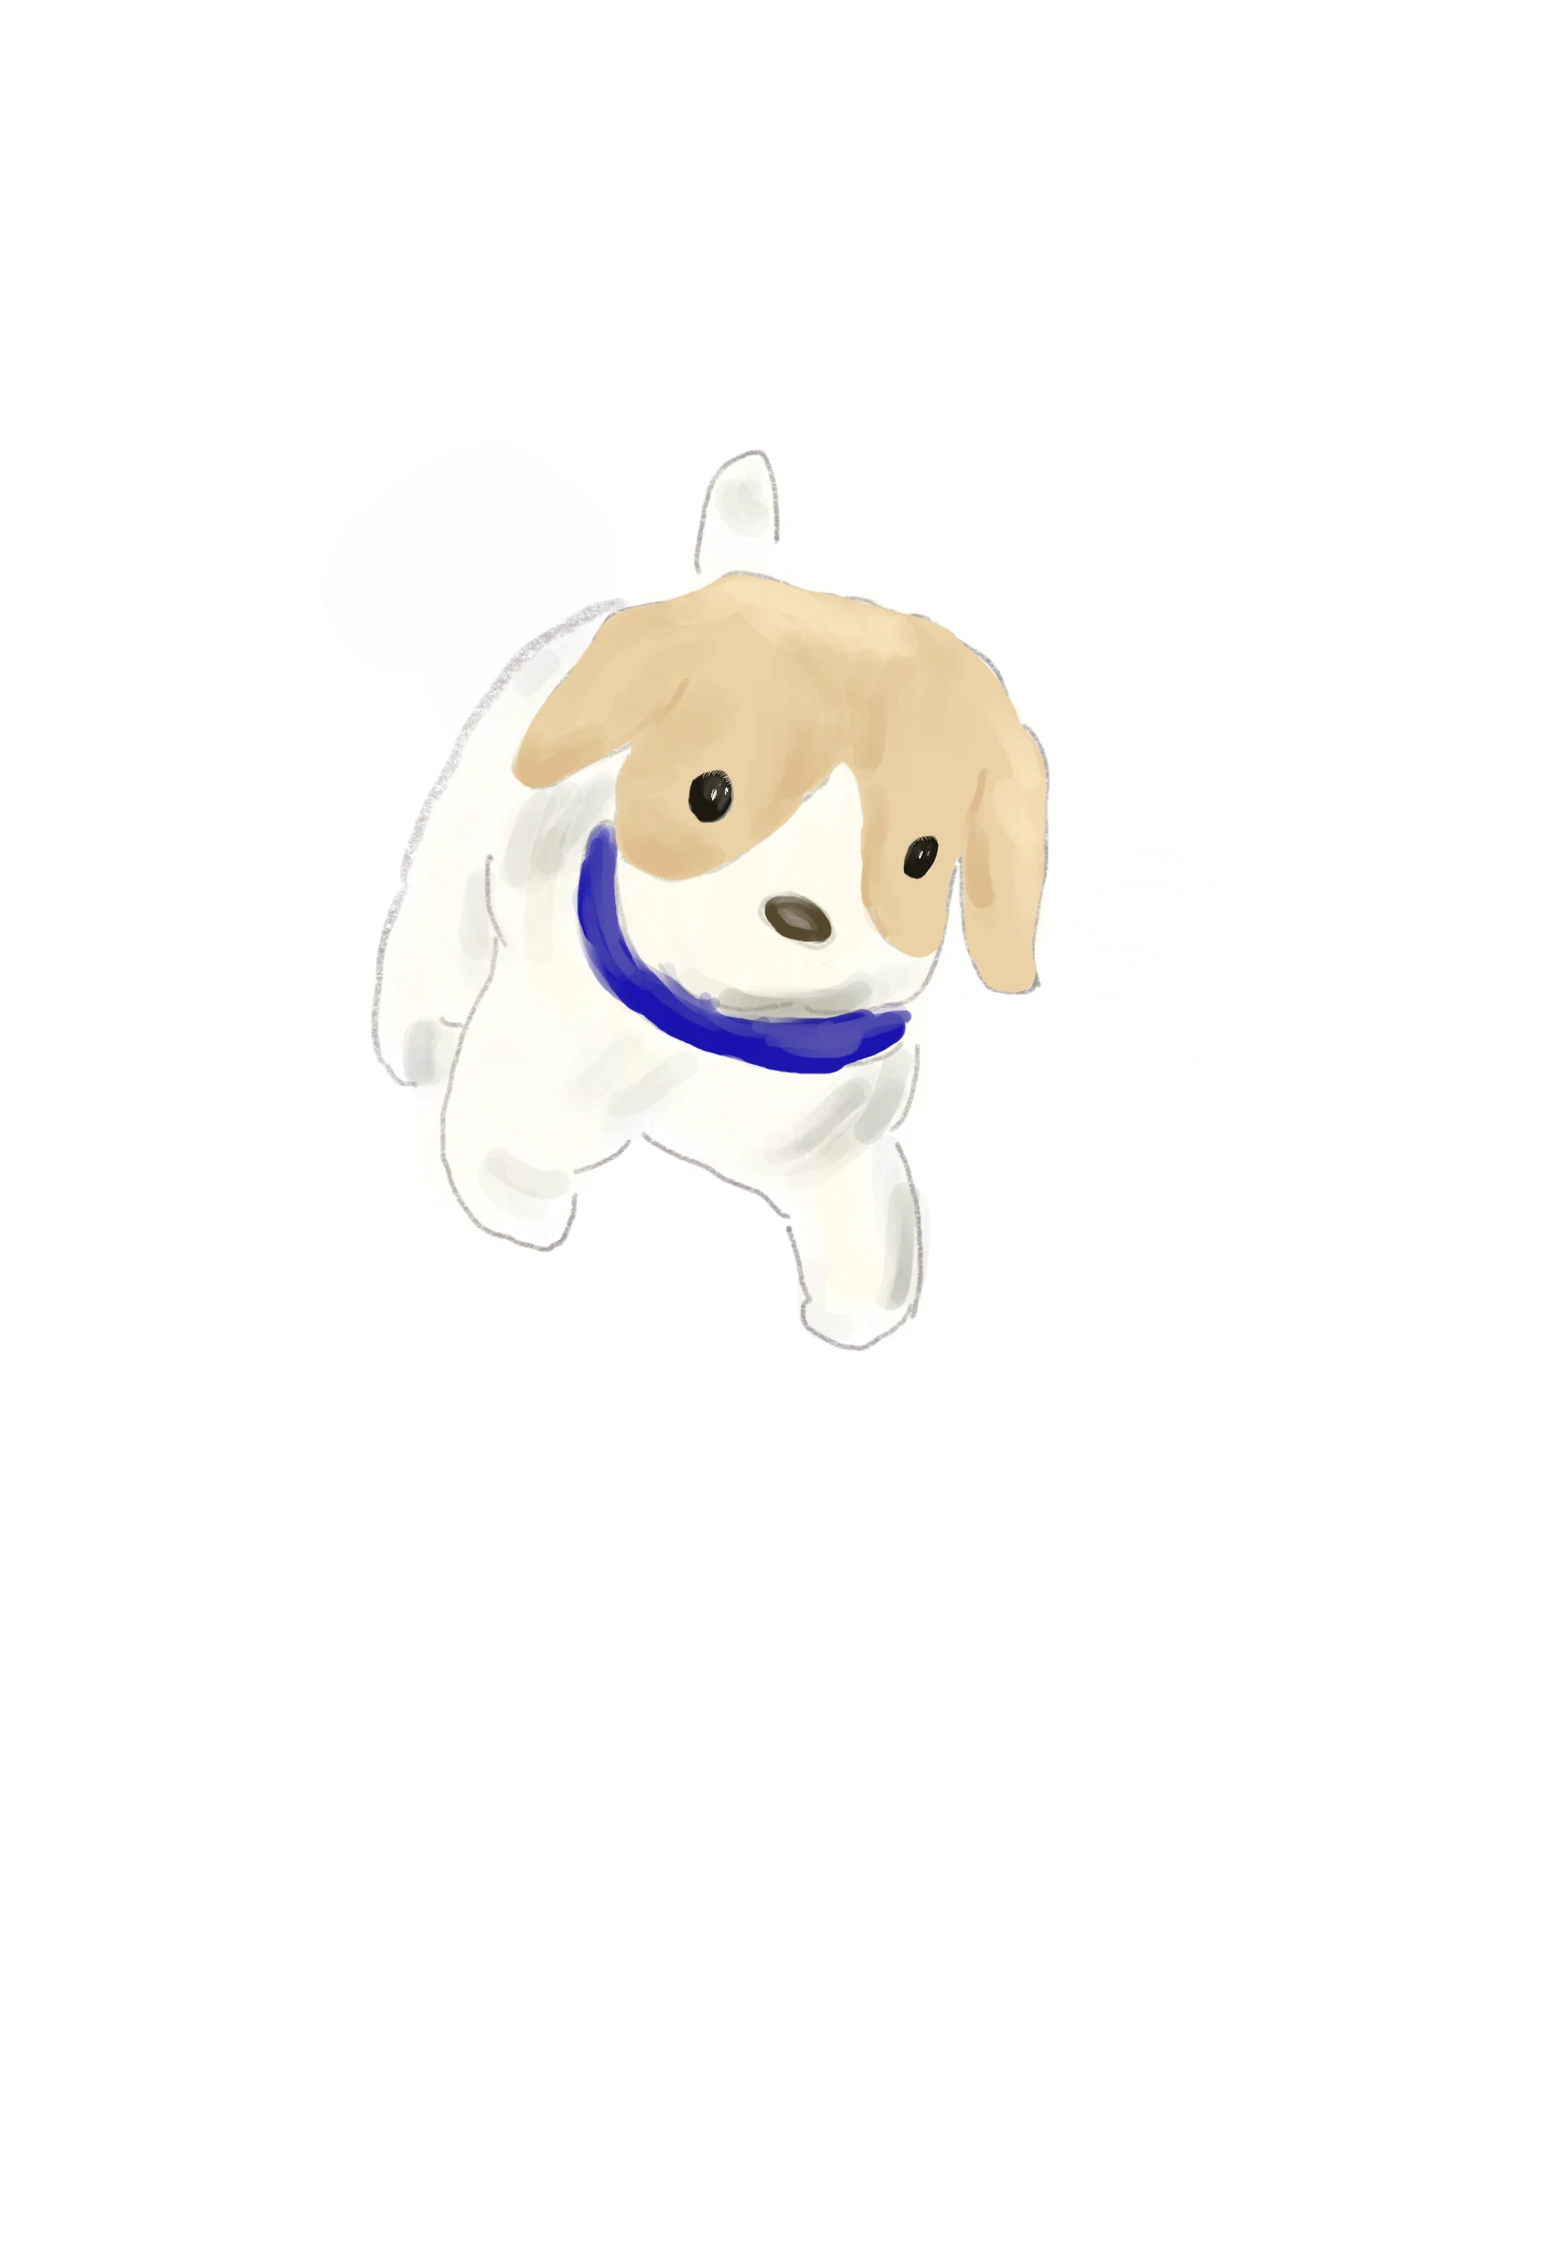
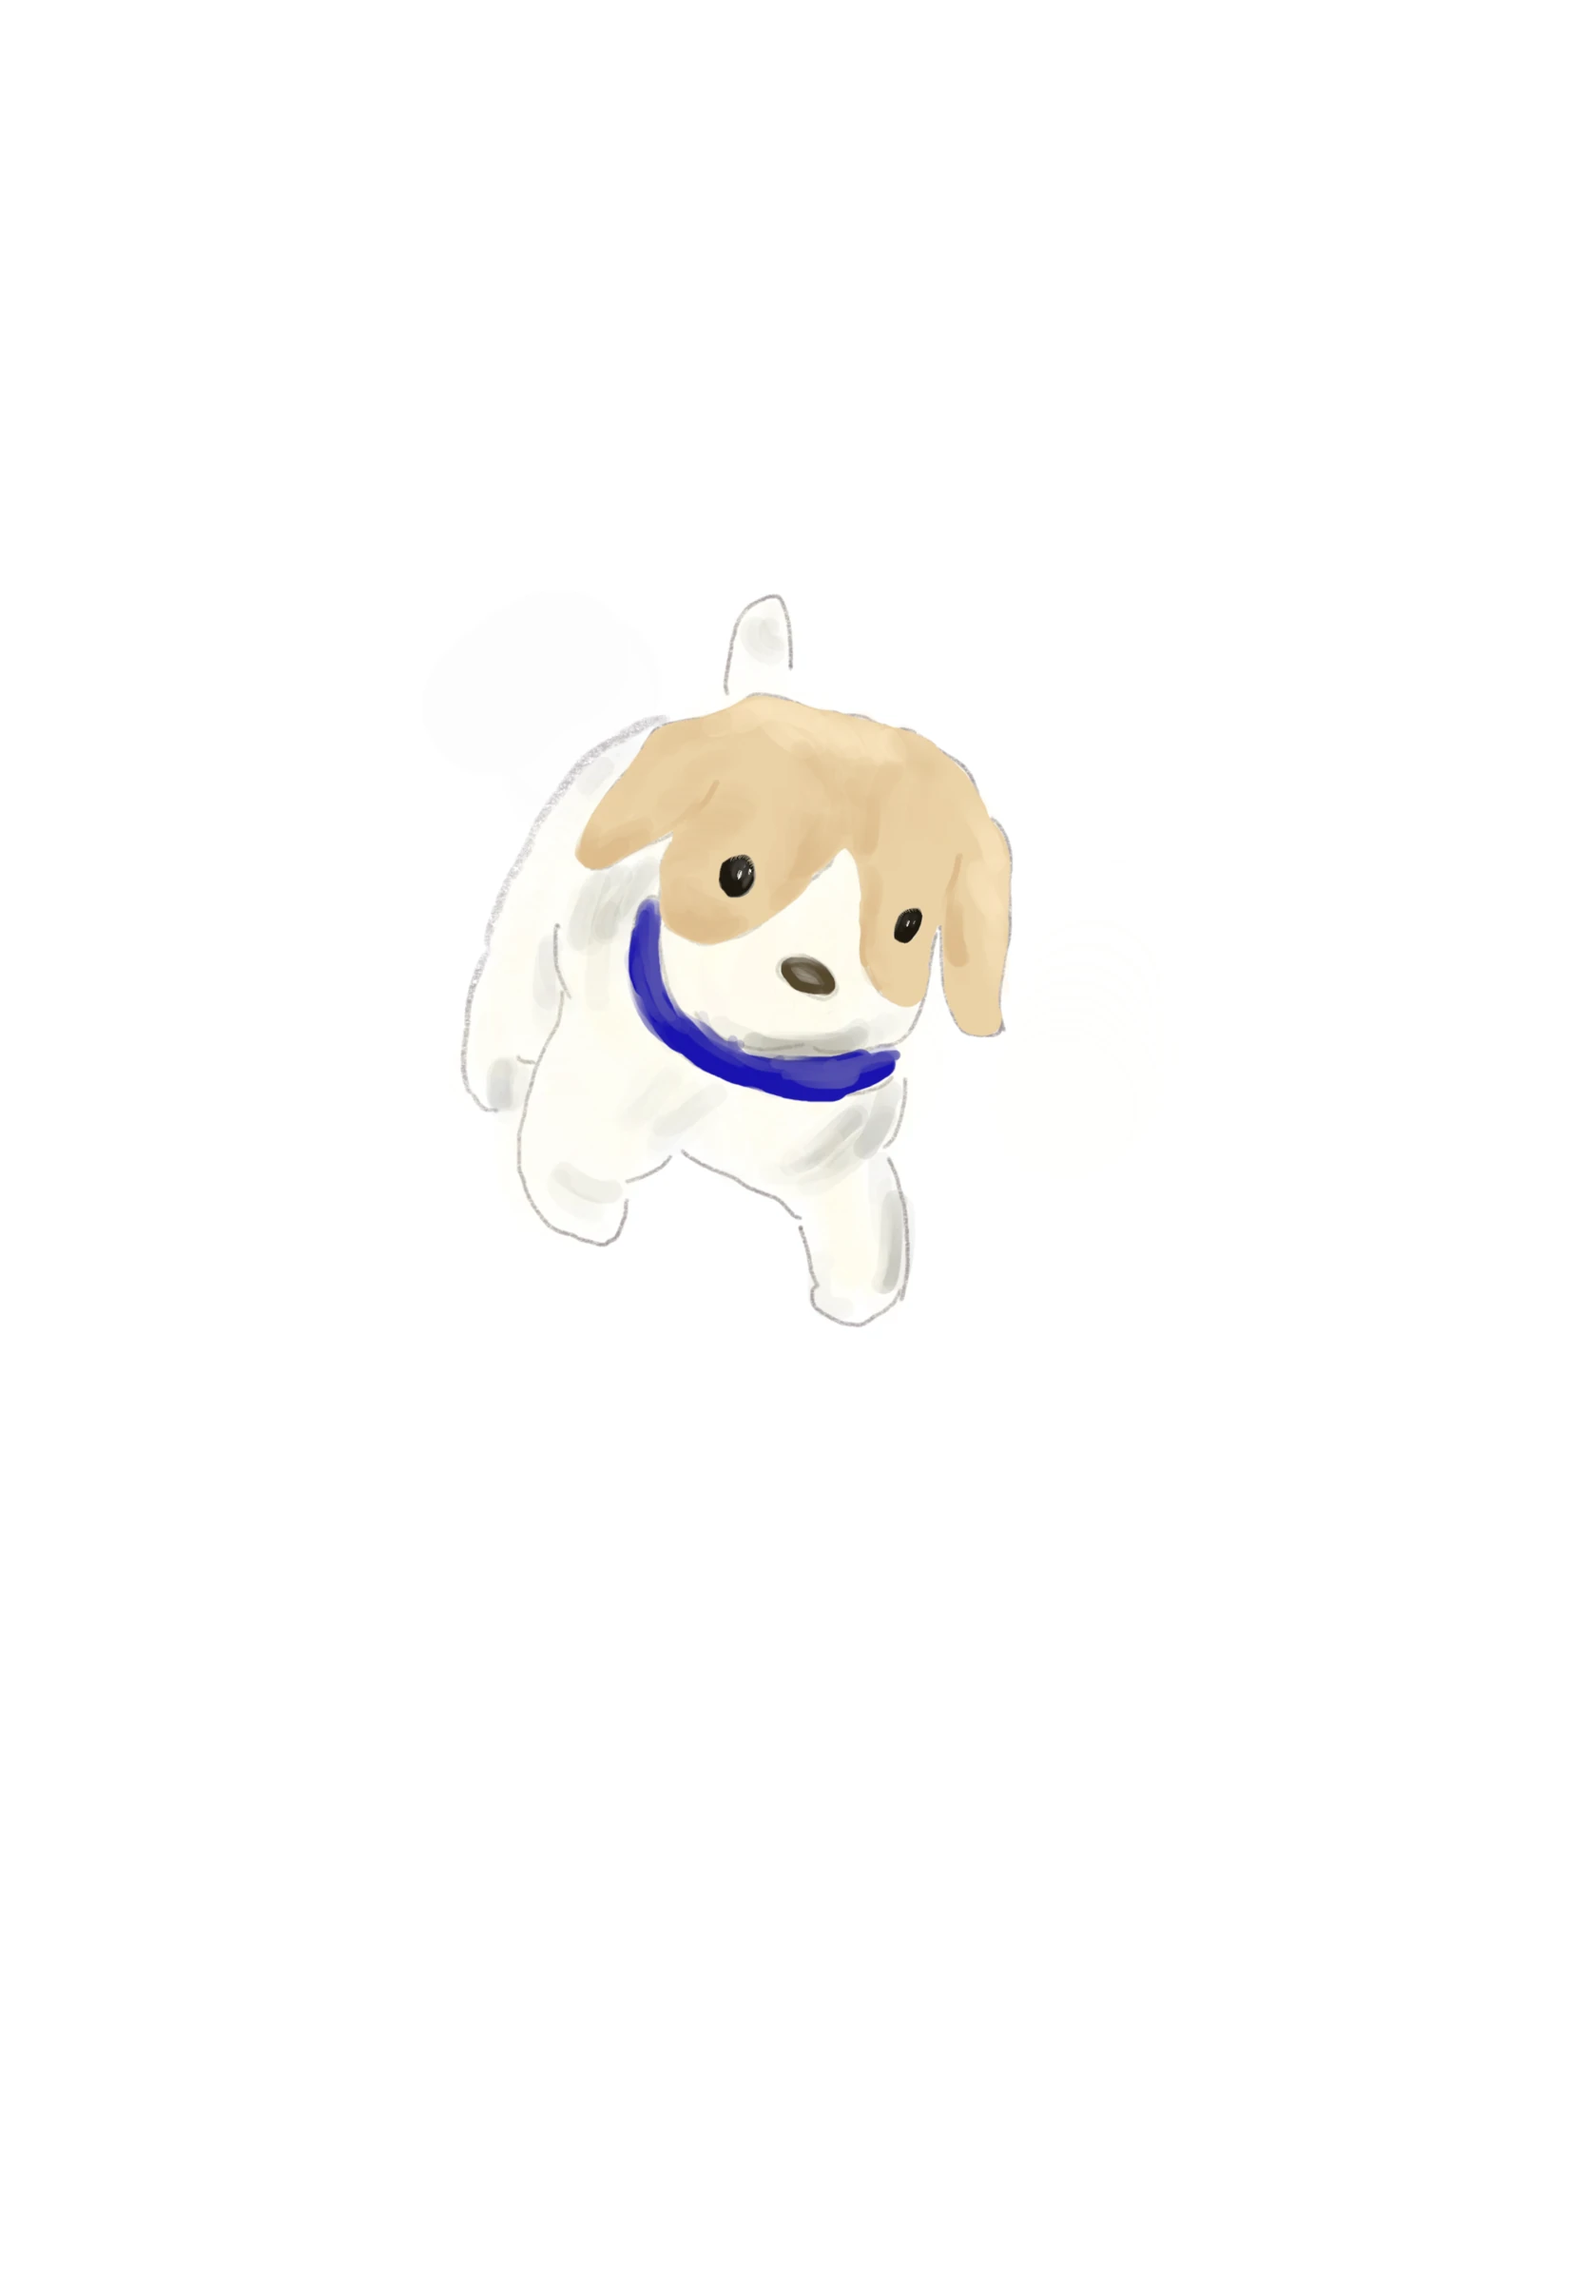
Update dog illustration and preserve Display P3 profile

diff --git a/portfolio/index.html b/portfolio/index.html
@@ -77,7 +77,7 @@
           <a class="work-link" href="assets/works/work-308b10c8dc/full.webp" data-info="assets/works/work-308b10c8dc/info.json" aria-haspopup="dialog">
             <img
               src="assets/works/work-308b10c8dc/thumbnail.webp"
-              srcset="assets/works/work-308b10c8dc/thumbnail.webp 834w, assets/works/work-308b10c8dc/full.webp 1640w"
+              srcset="assets/works/work-308b10c8dc/thumbnail.webp 834w, assets/works/work-308b10c8dc/full.webp 1668w"
               sizes="(max-width: 46rem) calc(100vw - 2rem), (max-width: 68rem) 46vw, 24rem"
               width="834"
               height="1200"
